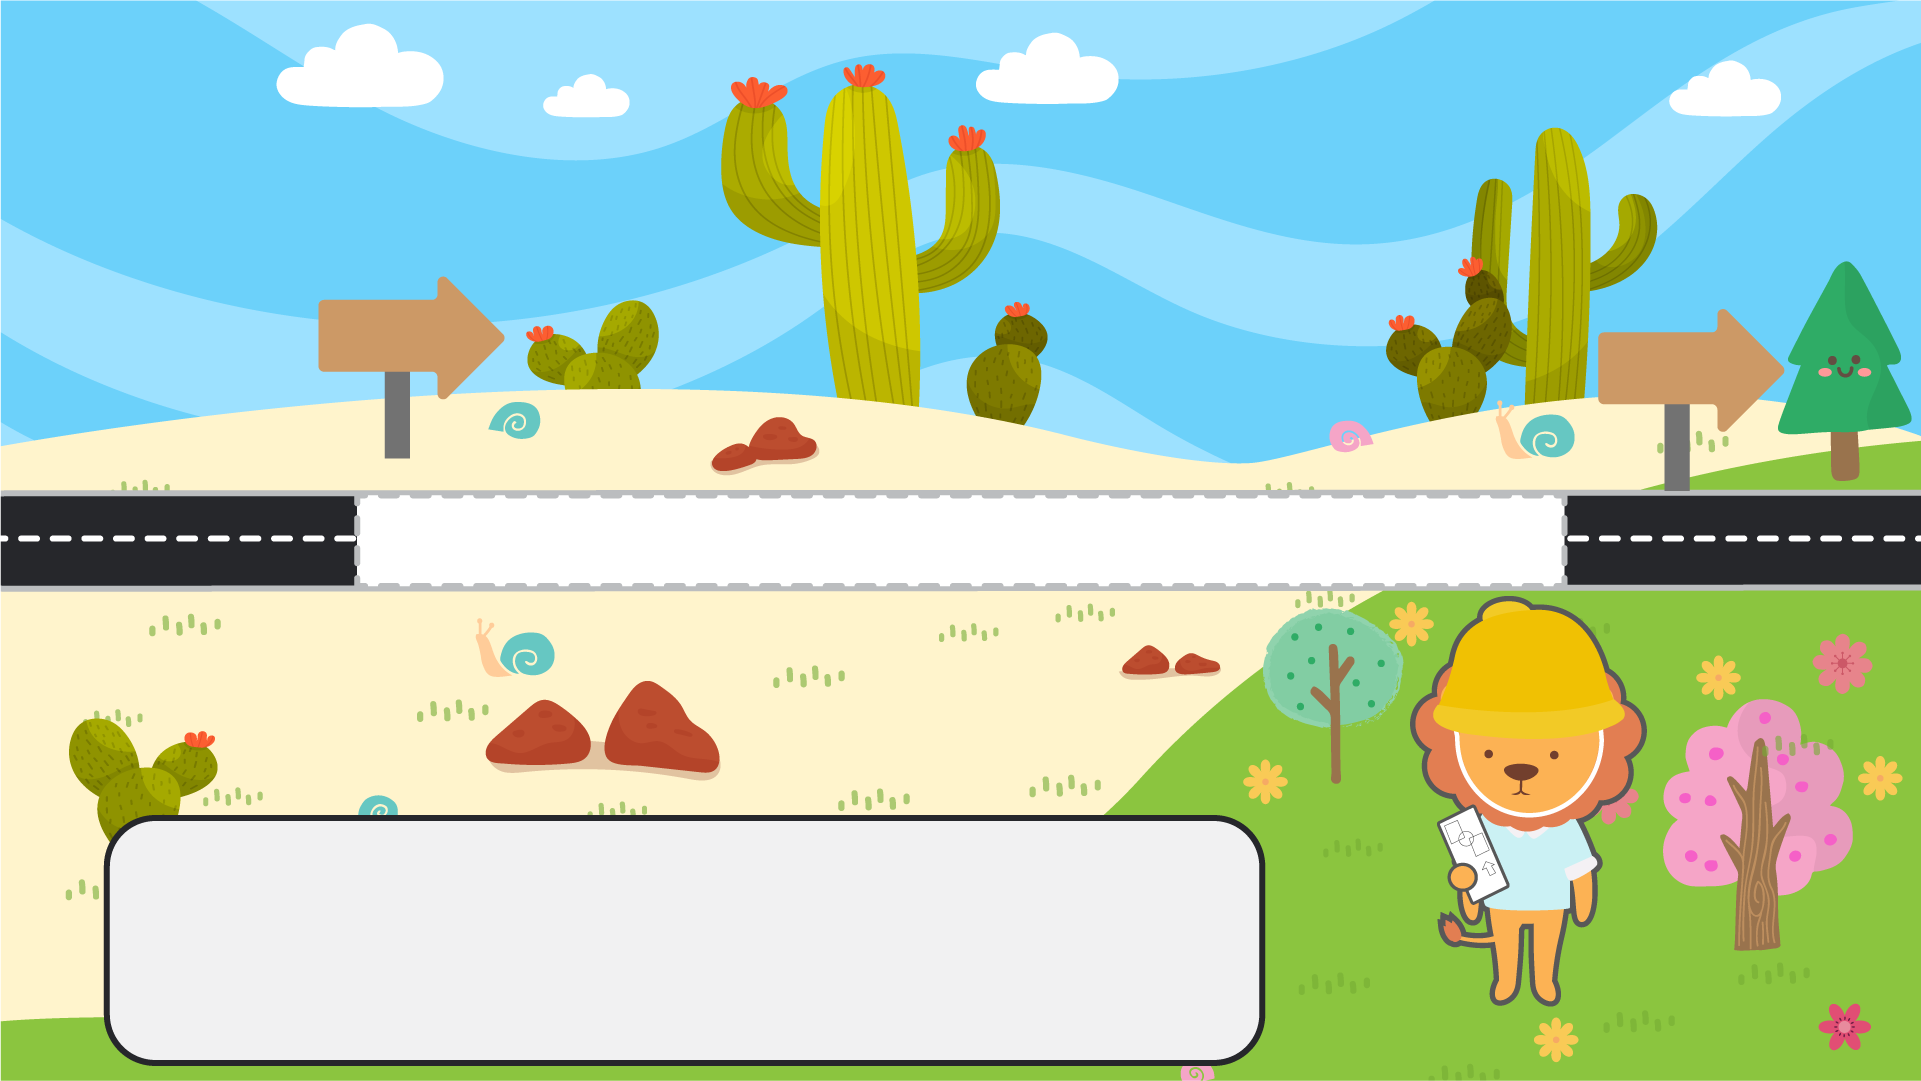
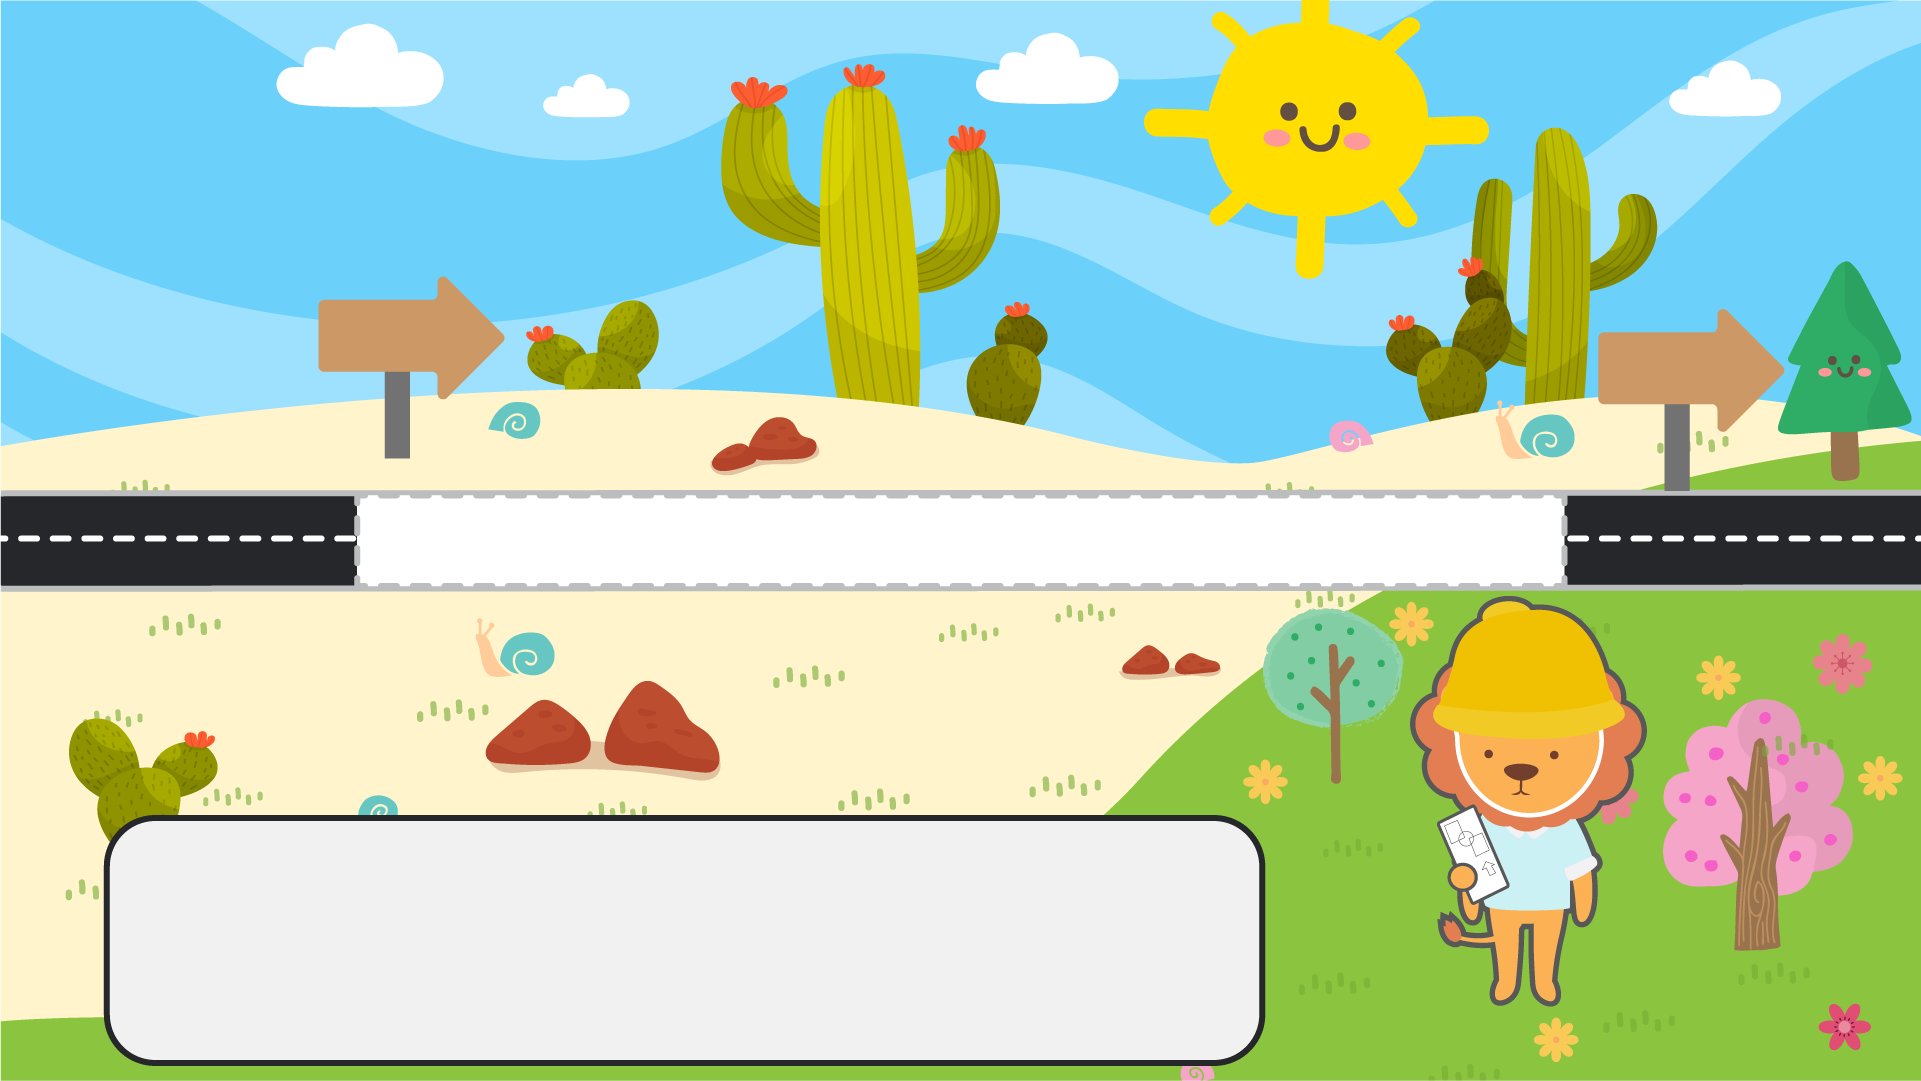
fix uat question

Changed region(s): [[0.5934, 0.0, 0.7808, 0.2747]]

diff --git a/src/games/game_17/scenes/GameScene.js b/src/games/game_17/scenes/GameScene.js
@@ -246,7 +246,7 @@ export default class GameScene extends BasicScene {
         }
 
         this.disableInput = false;
-        let sky = this.add.sprite(this.getColWidth(8.5), this.getRowHeight(.5), 'sun')
+        // let sky = this.add.sprite(this.getColWidth(8.5), this.getRowHeight(.5), 'sun')
    
         this.currentCar = parseInt(Math.random() * (6 - 1 + 1) + 1, 10);
         this.car = this.add.sprite(this.getColWidth(0.5), this.getRowHeight(4.5), `car_${this.currentCar}`).setDepth(10)
@@ -269,14 +269,14 @@ export default class GameScene extends BasicScene {
         this.blankRoad2 = new BlankRoad(this, this.getColWidth(7.1), this.getRowHeight(7.5));
         this.add.existing(this.answers)
         this.add.existing(this.blankRoad1)
-        sky.play('sun');
+        // sky.play('sun');
 
         this.car.play(`car_${this.currentCar}_idle`) 
         // this.car.flipX = -1
         
-        let exitBtn = new ExitBtn(this, 120, 135);
+        let exitBtn = new ExitBtn(this, 100, 120);
         this.doneBtn = new DoneBtn(this, this.getColWidth(10), this.getRowHeight(10))
-        this.speakerBtn = new SpeakerBtn(this, this.getColWidth(11), 135, this.musicPause.bind(this));
+        this.speakerBtn = new SpeakerBtn(this, this.getColWidth(11.5), 120, this.musicPause.bind(this));
         this.add.existing(exitBtn);
         this.add.existing(this.doneBtn);
         this.add.existing(this.speakerBtn);

diff --git a/src/games/game_16/scenes/GameScene.js b/src/games/game_16/scenes/GameScene.js
@@ -246,7 +246,7 @@ export default class GameScene extends BasicScene {
 
 
         this.disableInput = false;
-        let sky = this.add.sprite(this.getColWidth(8.5), this.getRowHeight(.5), 'sun')
+        // let sky = this.add.sprite(this.getColWidth(8.5), this.getRowHeight(.5), 'sun')
         let y = this.getRowHeight(5.5);
         let startX = this.getColWidth(1.7);
         let points = [
@@ -276,10 +276,10 @@ export default class GameScene extends BasicScene {
         this.blankRoad = new BlankRoad(this, this.getColWidth(6), this.getRowHeight(6));
         this.add.existing(this.answers)
         this.add.existing(this.blankRoad)
-        sky.play('sun');
-        let exitBtn = new ExitBtn(this, 120, 135);
+        // sky.play('sun');
+        let exitBtn = new ExitBtn(this, 100, 120);
         this.doneBtn = new DoneBtn(this, this.getColWidth(10), this.getRowHeight(10))
-        this.speakerBtn = new SpeakerBtn(this, this.getColWidth(11), 135, this.musicPause.bind(this));
+        this.speakerBtn = new SpeakerBtn(this, this.getColWidth(11.5), 120, this.musicPause.bind(this));
         this.add.existing(exitBtn);
         this.add.existing(this.doneBtn);
         this.add.existing(this.speakerBtn);

diff --git a/src/games/game_10/scenes/PreloaderScene.js b/src/games/game_10/scenes/PreloaderScene.js
@@ -39,7 +39,6 @@ export default class PreloaderScene extends BasicScene {
           'pack_bg_2': require('../assets/img/pack_bg_2.svg'),
           'pack_bg_3': require('../assets/img/pack_bg_3.svg'),
           'cover_bg': require('../assets/img/cover_bg.png'),
-
         };
 
         const atlasFiles = {
@@ -117,7 +116,6 @@ export default class PreloaderScene extends BasicScene {
           self.progressBar.clear();
           self.progressBar.fillStyle(0xFC8EFA, 1);
           self.progressBar.fillRect(config.width * 0.118, config.height * 0.92, (config.width * 0.778) * value, 10);
-
         });
     
         self.load.on('complete', function () {

diff --git a/src/games/game_17/objects/SpeakerBtn.js b/src/games/game_17/objects/SpeakerBtn.js
@@ -6,6 +6,7 @@ export default class SpeakerBtn extends BasicBtn {
     this.scene = scene;
     this.musicPause = musicPause;
     this.sprite = scene.add.sprite(0, 0, this.scene.stopAll ? 'offSpeakerBtn' : 'speakerBtn')
+    this.sprite.setScale(0.7);
     this.create(this.sprite, this.onClick.bind(this))
   }
 

diff --git a/src/games/game_16/objects/SpeakerBtn.js b/src/games/game_16/objects/SpeakerBtn.js
@@ -6,6 +6,7 @@ export default class SpeakerBtn extends BasicBtn {
     this.scene = scene;
     this.musicPause = musicPause;
     this.sprite = scene.add.sprite(0, 0, this.scene.stopAll ? 'offSpeakerBtn' : 'speakerBtn')
+    this.sprite.setScale(0.7)
     this.create(this.sprite, this.onClick.bind(this))
   }
 

diff --git a/src/games/game_16/objects/ExitBtn.js b/src/games/game_16/objects/ExitBtn.js
@@ -5,7 +5,8 @@ export default class ExitBtn extends BasicBtn {
     super(scene, x, y,children);
 
     let sprite =  scene.add.sprite(0, 0, 'extSmBtn')
-    this.create(sprite,this.onClick.bind(this))
+         sprite.setScale(0.8)
+         this.create(sprite,this.onClick.bind(this))
 
   }
 

diff --git a/src/games/game_16/objects/ExistBigBtn.js b/src/games/game_16/objects/ExistBigBtn.js
@@ -6,7 +6,7 @@ export default class ExistBigBtn extends BasicBtn {
         super(scene, x, y, children)
 
         let sprite =  scene.add.sprite(0, 0, 'extBtn')
-        sprite.setScale(0.8)
+        sprite.setScale(0.7)
 
         this.create(sprite,this.onClick.bind(this))
     

diff --git a/src/games/game_17/objects/ExitBtn.js b/src/games/game_17/objects/ExitBtn.js
@@ -5,6 +5,7 @@ export default class ExitBtn extends BasicBtn {
     super(scene, x, y,children);
 
     let sprite =  scene.add.sprite(0, 0, 'extSmBtn')
+    sprite.setScale(0.7);
     this.create(sprite,this.onClick.bind(this))
 
   }
